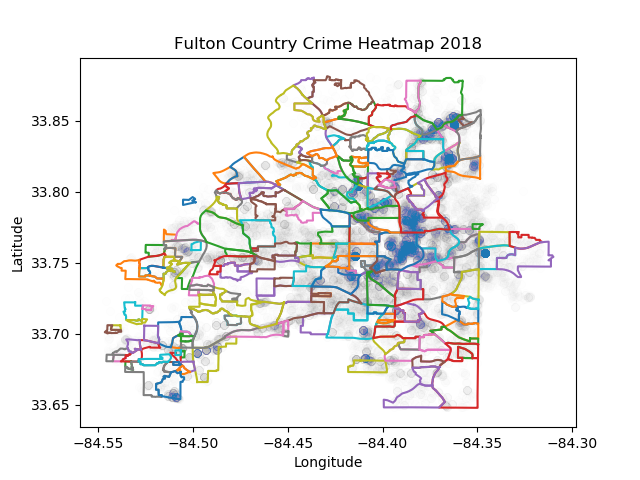
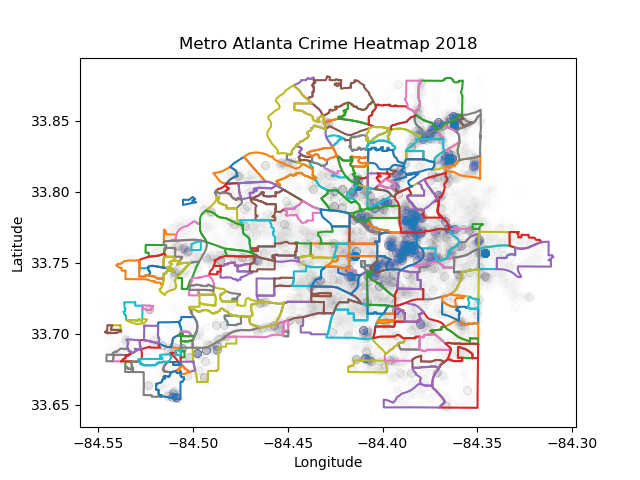
change map title

Changed region(s): [[0.25, 0.0625, 0.75, 0.125]]

diff --git a/year-over-year-crime.py b/year-over-year-crime.py
@@ -58,7 +58,7 @@ def write_crime_jpeg(year):
 	plt.scatter(x, y, alpha=.005)
 	plt.xlabel("Longitude")
 	plt.ylabel("Latitude")
-	plt.title(f"Fulton Country Crime Heatmap {year}")
+	plt.title(f"Metro Atlanta Crime Heatmap {year}")
 	plt.savefig(f"./year-over-year-scatter-plots/crime_{year}")
 	plt.close()
 
